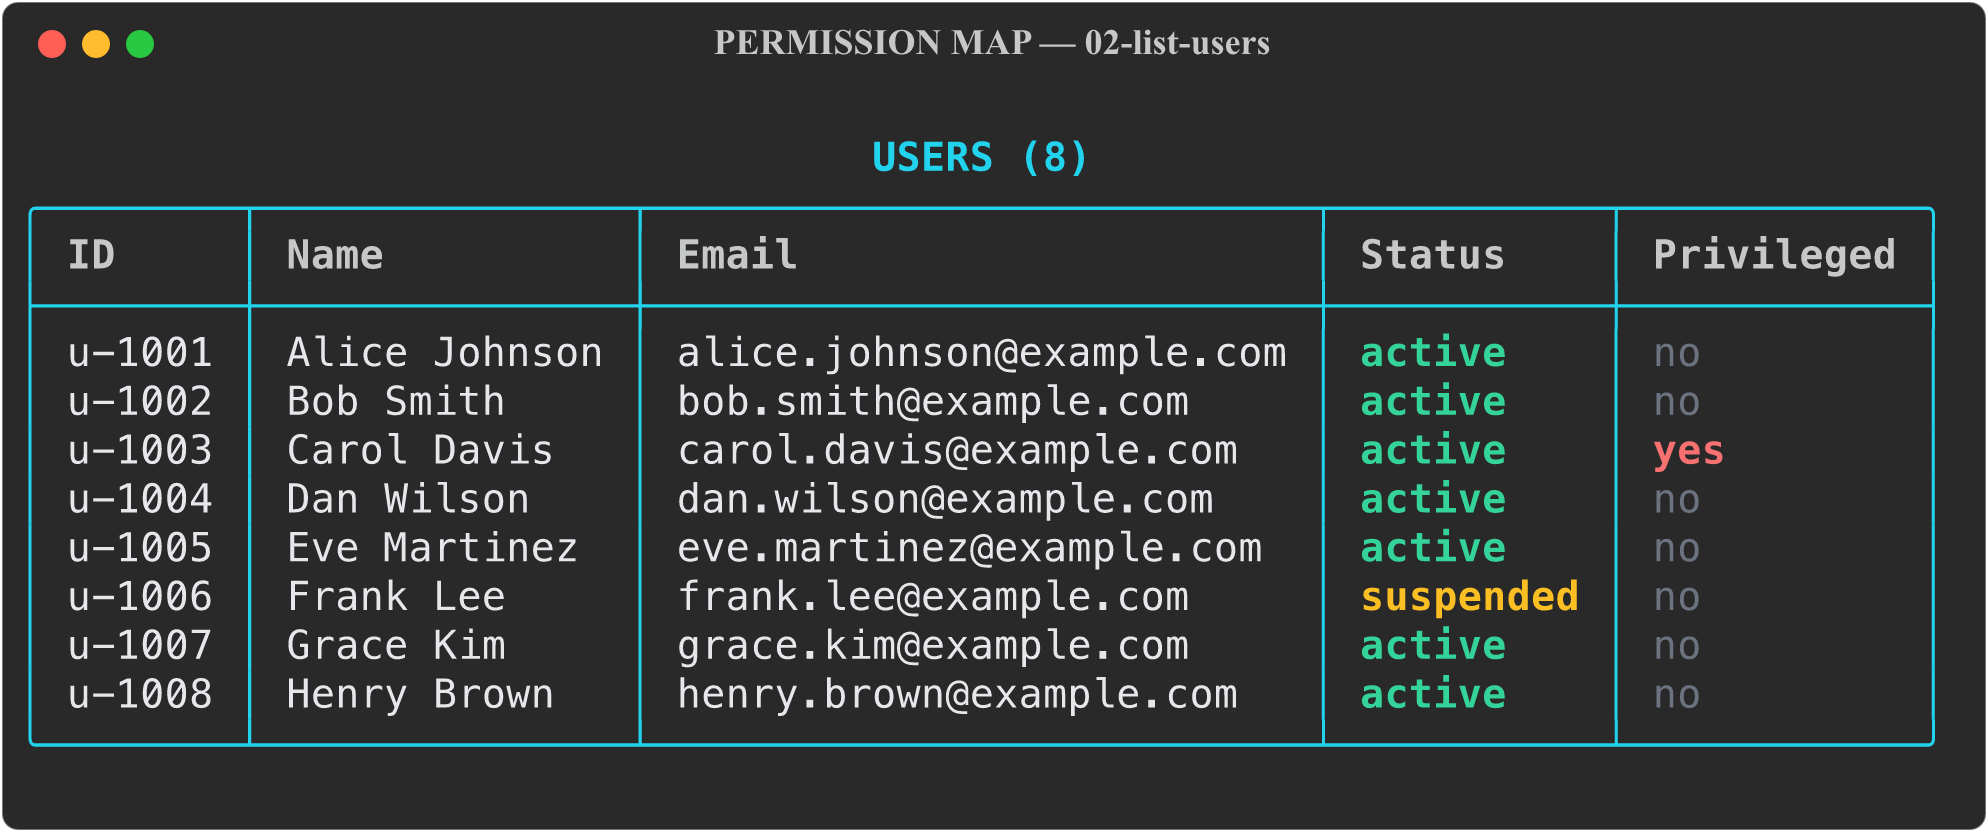
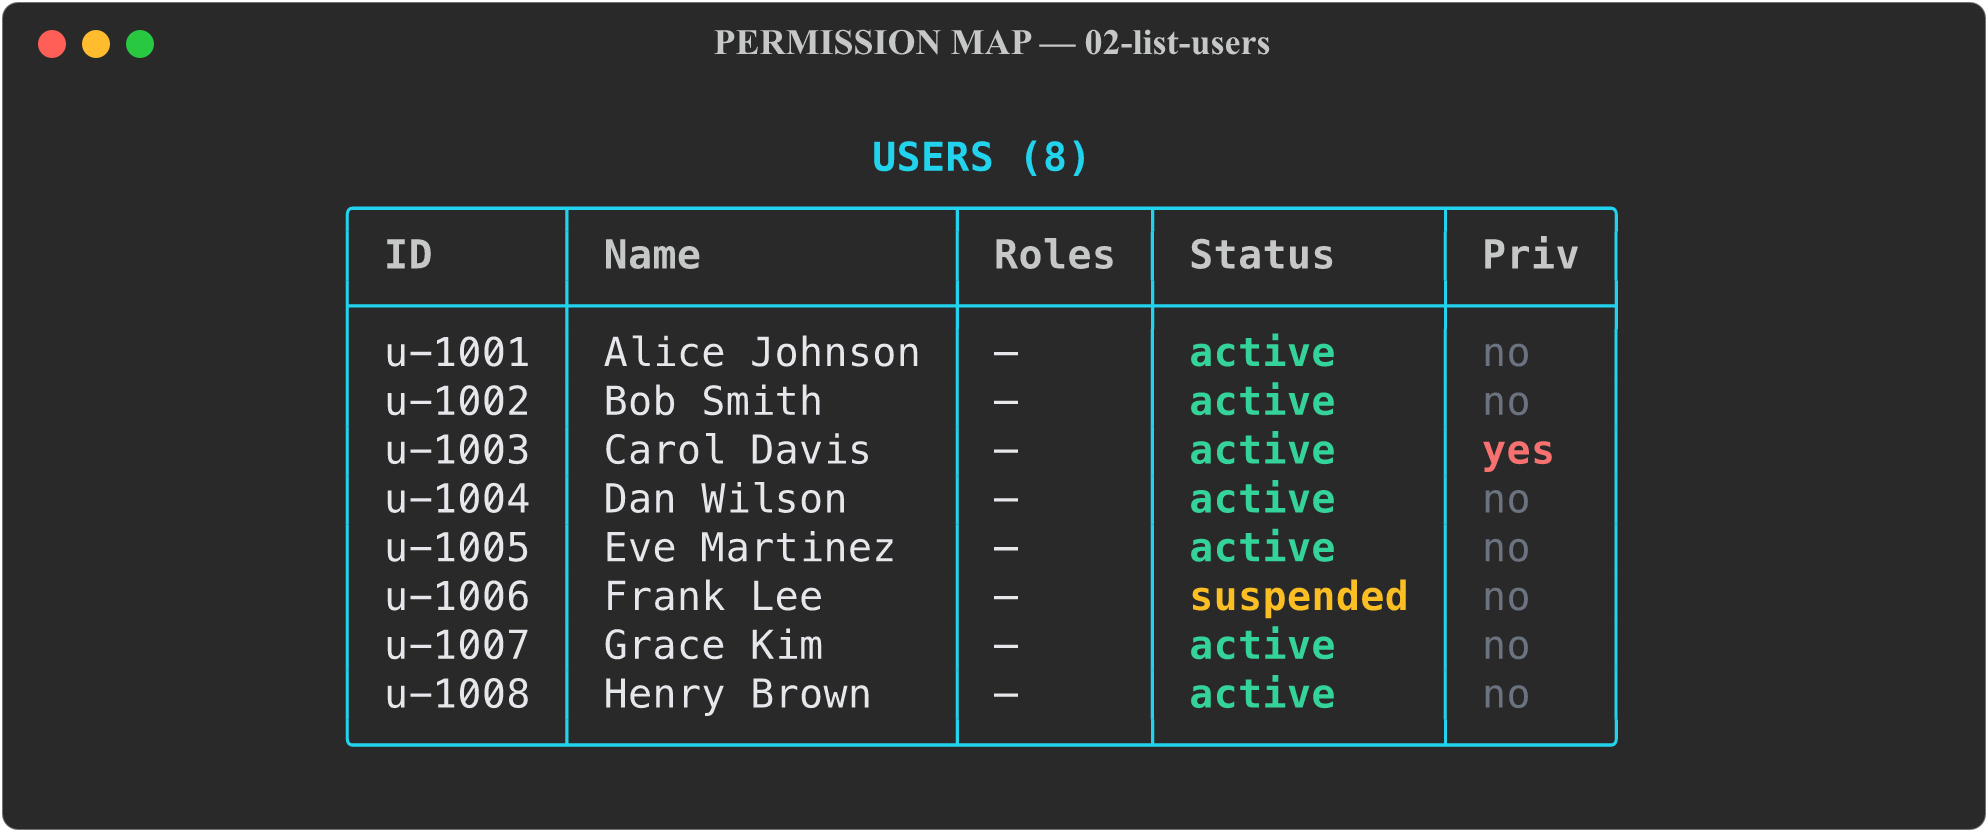
feat: show roles inline in 'list users' (v0.2.1)
- users table now shows effective roles (compact '+N') instead of a separate
  roles lookup
- privilege column reflects source flag OR inferred admin access
- refreshed screenshots; 57 tests

diff --git a/permission_map/cli/list_view.py b/permission_map/cli/list_view.py
@@ -9,6 +9,7 @@ from rich.style import Style
 from rich.table import Table
 from rich.text import Text
 
+from permission_map.core.graph_engine import PermissionGraph
 from permission_map.utils.theme import BLUE, CYAN, GREEN, MUTED_STYLE, RED, WHITE, YELLOW
 
 # Entity -> (key, header) columns shown in the terminal table. Kept compact so
@@ -17,9 +18,9 @@ _COLUMNS: dict[str, tuple[tuple[str, str], ...]] = {
     "users": (
         ("external_id", "ID"),
         ("name", "Name"),
-        ("email", "Email"),
+        ("roles", "Roles"),
         ("status", "Status"),
-        ("is_privileged", "Privileged"),
+        ("is_privileged", "Priv"),
     ),
     "groups": (("external_id", "ID"), ("name", "Name"), ("description", "Description")),
     "roles": (
@@ -65,6 +66,17 @@ _PRIVILEGED_STYLE = Style(color=RED, bold=True)
 _ACTIVE_STYLE = Style(color=GREEN, bold=True)
 _INACTIVE_STYLE = Style(color=YELLOW, bold=True)
 
+
+def with_user_roles(records: list[dict], graph: PermissionGraph) -> list[dict]:
+    """Attach each user's effective roles and inferred privilege to the record."""
+    for record in records:
+        access = graph.describe_user(record["external_id"])
+        record["roles"] = ", ".join(access.roles)
+        record["is_privileged"] = (
+            1 if (bool(record["is_privileged"]) or access.privileged) else 0
+        )
+    return records
+
 _ROLE_TYPE_STYLES: dict[str, Style] = {
     "admin": Style(color=RED, bold=True),
     "privileged": Style(color=YELLOW, bold=True),
@@ -83,6 +95,13 @@ def _ellipsize(value: str, max_length: int = 28) -> str:
 def _format_cell(key: str, value: object) -> str | Text:
     if key in _BOOLEAN_KEYS:
         return Text("yes", style=_PRIVILEGED_STYLE) if value else Text("no", style=MUTED_STYLE)
+    if key == "roles":
+        roles = [part.strip() for part in str(value or "").split(",") if part.strip()]
+        if not roles:
+            return "—"
+        if len(roles) <= 2:
+            return ", ".join(roles)
+        return f"{roles[0]}, {roles[1]} +{len(roles) - 2}"
     if key == "direct":
         return Text("yes" if value else "no", style=WHITE)
     if key == "role_type":

diff --git a/tests/test_graph.py b/tests/test_graph.py
@@ -4,8 +4,10 @@ from __future__ import annotations
 
 from pathlib import Path
 
+from permission_map.cli.list_view import with_user_roles
 from permission_map.core.graph_engine import PermissionGraph, format_path
 from permission_map.database.db import Database
+from permission_map.database.repositories import fetch_records
 from permission_map.importers.csv_importer import import_csv
 
 EXAMPLES = Path(__file__).resolve().parent.parent / "examples"
@@ -72,3 +74,13 @@ def test_unknown_user_has_no_access(tmp_path) -> None:
 
 def test_format_path() -> None:
     assert format_path(["user:u1", "group:g1", "role:r1", "permission:p1"]) == "u1 → g1 → r1 → p1"
+
+
+def test_user_list_includes_roles_and_inferred_privilege(tmp_path) -> None:
+    graph = _graph(tmp_path)
+    records = with_user_roles(fetch_records(graph.db, "users"), graph)
+    by_id = {record["external_id"]: record for record in records}
+    assert "r-admin" in by_id["u-1002"]["roles"]
+    assert by_id["u-1002"]["is_privileged"] == 1
+    assert by_id["u-1004"]["is_privileged"] == 0
+    assert by_id["u-1006"]["roles"] == ""

diff --git a/permission_map/cli/shell.py b/permission_map/cli/shell.py
@@ -28,7 +28,7 @@ from permission_map import (
 )
 from permission_map.cli.dashboard import render_app_banner, render_dashboard
 from permission_map.cli.import_view import render_import_result
-from permission_map.cli.list_view import render_list
+from permission_map.cli.list_view import render_list, with_user_roles
 from permission_map.cli.map_view import render_map_summary, render_user_map
 from permission_map.core.graph_engine import PermissionGraph
 from permission_map.core.normalizer import normalize_entity
@@ -216,7 +216,10 @@ def handle_command(
                 justify="center",
             )
         else:
-            render_list(console, canonical, fetch_records(db, canonical))
+            records = fetch_records(db, canonical)
+            if canonical == "users":
+                records = with_user_roles(records, PermissionGraph(db))
+            render_list(console, canonical, records)
         return True
 
     if command == "map" or command.startswith("map "):

diff --git a/permission_map/cli/commands.py b/permission_map/cli/commands.py
@@ -14,7 +14,7 @@ from rich.console import Console
 from permission_map import __app_name__, __description__, __version__
 from permission_map.cli.dashboard import render_dashboard
 from permission_map.cli.import_view import render_import_result
-from permission_map.cli.list_view import render_list
+from permission_map.cli.list_view import render_list, with_user_roles
 from permission_map.cli.map_view import render_map_summary, render_user_map
 from permission_map.cli.shell import render_help, run_shell
 from permission_map.core.graph_engine import PermissionGraph
@@ -108,7 +108,10 @@ def list_data(
             style="red",
         )
         raise typer.Exit(1)
-    render_list(console, canonical, fetch_records(database, canonical))
+    records = fetch_records(database, canonical)
+    if canonical == "users":
+        records = with_user_roles(records, PermissionGraph(database))
+    render_list(console, canonical, records)
 
 
 @app.command("map")

diff --git a/permission_map/__init__.py b/permission_map/__init__.py
@@ -11,7 +11,7 @@ read-only analysis of imported access data.
 from __future__ import annotations
 
 __app_name__ = "PERMISSION MAP"
-__version__ = "0.2.0"
+__version__ = "0.2.1"
 __author__ = "Abdulaziz Alshehri"
 __author_linkedin__ = "https://www.linkedin.com/in/abdulaziz-alshehri/"
 __linkedin_display__ = "linkedin.com/in/abdulaziz-alshehri"

diff --git a/CHANGELOG.md b/CHANGELOG.md
@@ -6,6 +6,14 @@ The format is based on [Keep a Changelog](https://keepachangelog.com/en/1.1.0/),
 and this project adheres to
 [Semantic Versioning](https://semver.org/spec/v2.0.0.html).
 
+## [0.2.1] - 2026-11-20
+
+### Changed
+
+- `list users` now shows each user's effective roles (compacted with `+N` for
+  many roles) and marks privilege from both the source flag and inferred admin
+  access, so roles are no longer a separate lookup.
+
 ## [0.2.0] - 2026-11-20
 
 ### Added

diff --git a/README.md b/README.md
@@ -39,7 +39,7 @@ cloud, no subscriptions, no telemetry.
 ### Import with validation
 ![Import result](docs/screenshots/05-import.png)
 
-### Users and privileged accounts
+### Users with their effective roles
 ![List users](docs/screenshots/02-list-users.png)
 
 ### Roles with automatic type detection
